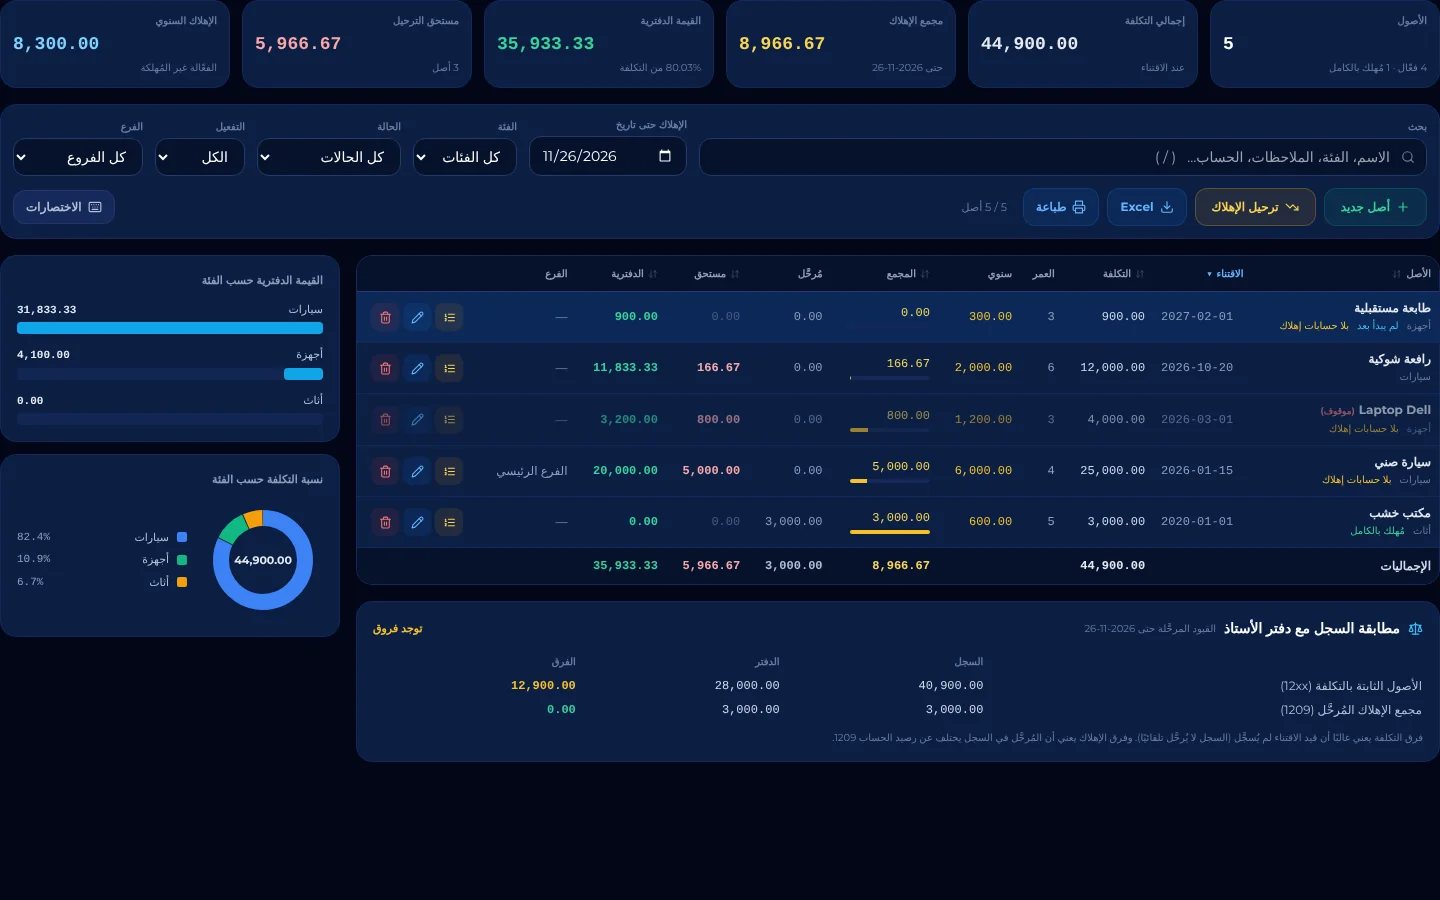
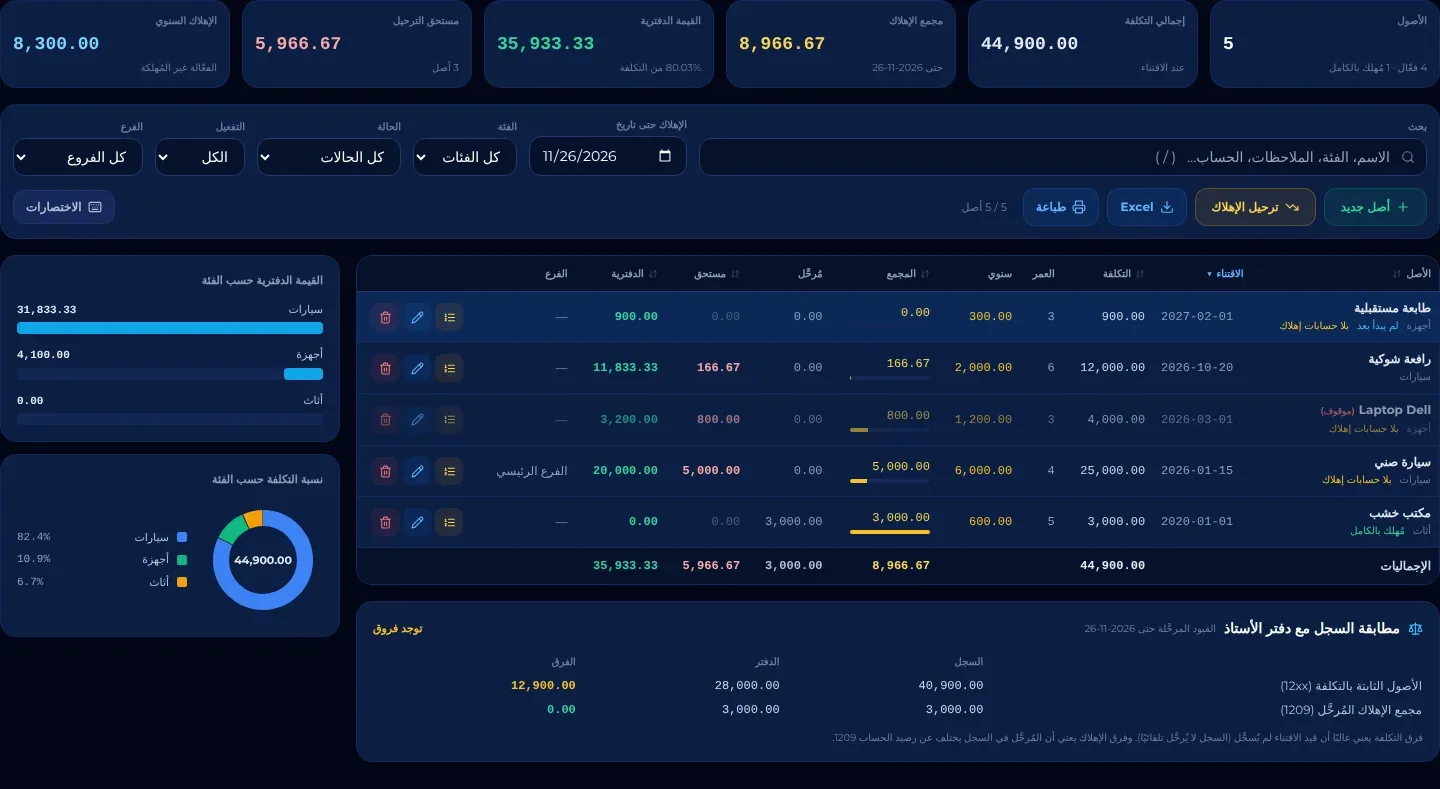
feat(landing): print templates showcase, zoomable screenshots, tighter layout

diff --git a/project/src/components/landing/LandingSections.tsx b/project/src/components/landing/LandingSections.tsx
@@ -3,8 +3,8 @@ import { useState } from "react";
 import { Menu, X, Languages, ArrowLeft, ArrowRight, Mail } from "lucide-react";
 import { useLang } from "../../context/LanguageContext";
 import { BrandLogo } from "../brand/BrandLogo";
-import { CAPABILITIES, MODULES, NEW_FEATURES, BRANCH_POINTS, REPORT_POINTS, DEMO_TABS, PLAN_CARDS, FAQS } from "./landingContent";
-import { Ico, IconTile, Section, Heading, CheckList, BrowserFrame, btnPrimary, btnGhostDark } from "./ui";
+import { CAPABILITIES, MODULES, NEW_FEATURES, BRANCH_POINTS, REPORT_POINTS, DEMO_TABS, PLAN_CARDS, FAQS, PRINT_DOCS, PRINT_STAGES, PRINT_POINTS } from "./landingContent";
+import { Ico, IconTile, Section, Heading, CheckList, BrowserFrame, ZoomImg, btnPrimary, btnGhostDark } from "./ui";
 import type { PlanId } from "./subscriptionLogic";
 import { ErpDashboardMock, ErpBranchesMock, ErpReportsMock } from "./ErpMock";
 
@@ -16,7 +16,7 @@ export function LandingTopNav({ onLogin, onJoin }: { onLogin: () => void; onJoin
   const [open, setOpen] = useState(false);
   const links = [
     { h: "#modules", l: t("Modules", "الوحدات") }, { h: "#new", l: t("What's new", "الجديد") }, { h: "#branches", l: t("Branches", "الفروع") },
-    { h: "#reports", l: t("Reports", "التقارير") }, { h: "#demo", l: t("Demo", "تجربة النظام") }, { h: "#pricing", l: t("Plans", "الاشتراكات") }, { h: "#faq", l: t("FAQ", "الأسئلة") },
+    { h: "#reports", l: t("Reports", "التقارير") }, { h: "#demo", l: t("Demo", "تجربة النظام") }, { h: "#print", l: t("Printing", "الطباعة") }, { h: "#pricing", l: t("Plans", "الاشتراكات") }, { h: "#faq", l: t("FAQ", "الأسئلة") },
   ];
   return (
     <header className="fixed inset-x-0 top-0 z-50 border-b border-[#ffffff1a] bg-[#0B1F44]/90 backdrop-blur-md">
@@ -171,10 +171,46 @@ export function DemoSection({ onJoin }: { onJoin: OnPlan }) {
           <button key={x.id} role="tab" aria-selected={x.id === id} onClick={() => setId(x.id)} data-testid={`demo-tab-${x.id}`} className={`rounded-full px-4 py-2 text-sm font-bold transition ${x.id === id ? "bg-[#0B1F44] text-[#ffffff]" : "bg-[#ffffff] text-[#0B1F44] ring-1 ring-[#d5dae5] hover:ring-[#007BFF]"}`}>{t(x.label.en, x.label.ar)}</button>
         ))}
       </div>
-      <div className="mx-auto max-w-5xl">
-        <BrowserFrame src={img(cur.img)} alt={t(cur.caption.en, cur.caption.ar)} />
+      <div className="mx-auto max-w-6xl">
+        <BrowserFrame src={img(cur.img)} alt={t(cur.caption.en, cur.caption.ar)} zoomLabel={t("Click to enlarge", "اضغط للتكبير")} />
         <p className="mt-4 text-center text-sm font-semibold text-[#4b5b78]" data-testid="demo-caption">{t(cur.caption.en, cur.caption.ar)}</p>
         <div className="mt-6 text-center"><button type="button" onClick={() => onJoin("trial")} className={btnPrimary}>{t("Start your free trial", "ابدأ تجربتك المجانية")}</button></div>
+      </div>
+    </Section>
+  );
+}
+
+export function PrintSection({ onJoin }: { onJoin: OnPlan }) {
+  const { t } = useLang();
+  const [kind, setKind] = useState(PRINT_DOCS[1].kind);
+  const cur = PRINT_DOCS.find((d) => d.kind === kind) ?? PRINT_DOCS[0];
+  return (
+    <Section id="print">
+      <Heading eyebrow={t("Document-cycle printing", "نماذج الطباعة للدورة المستندية")} title={t("Professional documents, ready to print", "مستندات احترافية جاهزة للطباعة")} sub={t("Nine templates covering the sales and purchases cycles — quotation to journal voucher.", "تسعة نماذج تغطي دورتي المبيعات والمشتريات — من عرض السعر إلى قيد اليومية.")} />
+      <div className="grid items-start gap-8 lg:grid-cols-[320px_1fr]">
+        <div className="space-y-5">
+          {PRINT_STAGES.map((st) => (
+            <div key={st.id}>
+              <div className="mb-2 text-xs font-extrabold uppercase tracking-wide text-[#007BFF]">{t(st.t.en, st.t.ar)}</div>
+              <div className="space-y-1.5">
+                {PRINT_DOCS.filter((d) => d.stage === st.id).map((d, i) => (
+                  <button key={d.kind} type="button" onClick={() => setKind(d.kind)} data-testid={`print-${d.kind}`} aria-pressed={d.kind === kind}
+                    className={`flex w-full items-center gap-3 rounded-xl border px-3.5 py-2.5 text-start text-sm font-bold transition ${d.kind === kind ? "border-[#0B1F44] bg-[#0B1F44] text-[#ffffff]" : "border-[#E6E8ED] bg-[#ffffff] text-[#0B1F44] hover:border-[#007BFF]"}`}>
+                    <span className={`inline-flex h-6 w-6 shrink-0 items-center justify-center rounded-full text-xs ${d.kind === kind ? "bg-[#00C2FF] text-[#0B1F44]" : "bg-[#007BFF14] text-[#007BFF]"}`}>{i + 1}</span>{t(d.t.en, d.t.ar)}
+                  </button>
+                ))}
+              </div>
+            </div>
+          ))}
+          <div className="rounded-xl bg-[#F4F6FA] p-4"><CheckList items={PRINT_POINTS.map((p) => t(p.en, p.ar))} /></div>
+        </div>
+        <div>
+          <div className="overflow-hidden rounded-2xl border border-[#E6E8ED] bg-[#ffffff] shadow-[0_30px_80px_-20px_rgba(11,31,68,0.35)]">
+            <ZoomImg key={cur.kind} src={`/landing/print/${cur.kind}.webp`} alt={t(cur.t.en, cur.t.ar)} label={t("Click to enlarge", "اضغط للتكبير")} />
+          </div>
+          <p className="mt-3 text-center text-sm font-semibold text-[#4b5b78]" data-testid="print-caption">{t(cur.t.en, cur.t.ar)} — {t("sample data, bilingual layout", "بيانات توضيحية، تخطيط ثنائي اللغة")}</p>
+          <div className="mt-5 text-center"><button type="button" onClick={() => onJoin("trial")} className={btnPrimary}>{t("Start your free trial", "ابدأ تجربتك المجانية")}</button></div>
+        </div>
       </div>
     </Section>
   );

diff --git a/project/src/components/landing/ui.tsx b/project/src/components/landing/ui.tsx
@@ -1,6 +1,6 @@
 // مكوّنات واجهة مشتركة لصفحة الهبوط (ألوان الهوية بصيغة hex صريحة كي لا يغيّرها theme.css)
-import { ReactNode } from "react";
-import { Calculator, ShoppingCart, ShoppingBag, Boxes, Building2, ScanBarcode, BarChart3, Bell, Printer, Wallet, Tag, Settings, Users, Globe, Cloud, Layers, ShieldCheck, Check } from "lucide-react";
+import { ReactNode, useEffect, useState } from "react";
+import { Calculator, ShoppingCart, ShoppingBag, Boxes, Building2, ScanBarcode, BarChart3, Bell, Printer, Wallet, Tag, Settings, Users, Globe, Cloud, Layers, ShieldCheck, Check, X, ZoomIn } from "lucide-react";
 import type { IconName } from "./landingContent";
 
 const ICONS: Record<IconName, typeof Calculator> = { calc: Calculator, cart: ShoppingCart, bag: ShoppingBag, box: Boxes, branch: Building2, pos: ScanBarcode, chart: BarChart3, bell: Bell, print: Printer, wallet: Wallet, tag: Tag, settings: Settings, users: Users, globe: Globe, cloud: Cloud, layers: Layers, shield: ShieldCheck };
@@ -16,7 +16,7 @@ export function IconTile({ name, dark = false }: { name: IconName; dark?: boolea
 }
 export function Section({ id, children, tone = "white", className = "" }: { id?: string; children: ReactNode; tone?: "white" | "gray" | "navy"; className?: string }) {
   const bg = tone === "navy" ? "bg-[#0B1F44]" : tone === "gray" ? "bg-[#F4F6FA]" : "bg-[#ffffff]";
-  return <section id={id} className={`${bg} scroll-mt-16 py-16 sm:py-24 ${className}`}><div className="mx-auto max-w-7xl px-4 sm:px-6">{children}</div></section>;
+  return <section id={id} className={`${bg} scroll-mt-16 py-14 sm:py-20 ${className}`}><div className="mx-auto max-w-7xl px-4 sm:px-6">{children}</div></section>;
 }
 export function Heading({ eyebrow, title, sub, dark = false, center = true }: { eyebrow?: string; title: string; sub?: string; dark?: boolean; center?: boolean }) {
   return (
@@ -39,14 +39,37 @@ export function CheckList({ items, dark = false }: { items: string[]; dark?: boo
     </ul>
   );
 }
-export function BrowserFrame({ src, alt, className = "", eager = false }: { src: string; alt: string; className?: string; eager?: boolean }) {
+/** صورة قابلة للتكبير بالنقر (نافذة عرض كاملة، تُغلق بـ Esc أو بالنقر). */
+export function ZoomImg({ src, alt, className = "", eager = false, label }: { src: string; alt: string; className?: string; eager?: boolean; label: string }) {
+  const [open, setOpen] = useState(false);
+  useEffect(() => {
+    if (!open) return;
+    const h = (e: KeyboardEvent) => { if (e.key === "Escape") setOpen(false); };
+    window.addEventListener("keydown", h); return () => window.removeEventListener("keydown", h);
+  }, [open]);
+  return (
+    <>
+      <button type="button" onClick={() => setOpen(true)} aria-label={label} data-testid="zoom-open" className="group relative block w-full cursor-zoom-in">
+        <img src={src} alt={alt} loading={eager ? "eager" : "lazy"} decoding="async" className={`block h-auto w-full ${className}`} />
+        <span className="pointer-events-none absolute bottom-3 end-3 inline-flex items-center gap-1 rounded-full bg-[#0B1F44]/85 px-3 py-1.5 text-xs font-bold text-[#ffffff] opacity-90 transition group-hover:bg-[#007BFF]"><ZoomIn size={14} />{label}</span>
+      </button>
+      {open && (
+        <div className="fixed inset-0 z-[120] flex items-center justify-center bg-[#050d1f]/90 p-3 sm:p-6" role="dialog" aria-modal="true" aria-label={alt} data-testid="zoom-dialog" onClick={() => setOpen(false)}>
+          <button type="button" aria-label="Close" className="absolute end-4 top-4 rounded-full bg-[#ffffff22] p-2 text-[#ffffff] hover:bg-[#ffffff44]" onClick={() => setOpen(false)}><X size={22} /></button>
+          <img src={src} alt={alt} className="max-h-full max-w-full rounded-lg bg-[#ffffff] object-contain shadow-2xl" onClick={(e) => e.stopPropagation()} />
+        </div>
+      )}
+    </>
+  );
+}
+export function BrowserFrame({ src, alt, className = "", eager = false, zoomLabel }: { src: string; alt: string; className?: string; eager?: boolean; zoomLabel?: string }) {
   return (
     <div className={`overflow-hidden rounded-2xl border border-[#E6E8ED] bg-[#ffffff] shadow-[0_30px_80px_-20px_rgba(11,31,68,0.45)] ${className}`}>
       <div className="flex items-center gap-1.5 border-b border-[#E6E8ED] bg-[#F4F6FA] px-4 py-2.5" dir="ltr">
         <span className="h-2.5 w-2.5 rounded-full bg-[#ff6b6b]" /><span className="h-2.5 w-2.5 rounded-full bg-[#ffc947]" /><span className="h-2.5 w-2.5 rounded-full bg-[#3ddc97]" />
         <span className="ms-3 truncate rounded-md bg-[#ffffff] px-3 py-0.5 text-[11px] text-[#6b7a99]">app.mihwar.cloud</span>
       </div>
-      <img src={src} alt={alt} loading={eager ? "eager" : "lazy"} decoding="async" className="block h-auto w-full" />
+      {zoomLabel ? <ZoomImg src={src} alt={alt} eager={eager} label={zoomLabel} /> : <img src={src} alt={alt} loading={eager ? "eager" : "lazy"} decoding="async" className="block h-auto w-full" />}
     </div>
   );
 }

diff --git a/project/src/components/landing/landingContent.ts b/project/src/components/landing/landingContent.ts
@@ -75,3 +75,25 @@ export const FAQS: { q: Bi; a: Bi }[] = [
   { q: b("Can I export my reports?", "هل يمكنني تصدير التقارير؟"), a: b("Yes, reports can be printed or exported to Excel.", "نعم، يمكن طباعة التقارير أو تصديرها إلى Excel.") },
   { q: b("Who can see my data?", "من يستطيع رؤية بياناتي؟"), a: b("Access is controlled by user roles and page permissions; each company's data is separated from other companies.", "الوصول مضبوط بأدوار المستخدمين وصلاحيات الصفحات، وبيانات كل شركة منفصلة عن غيرها.") },
 ];
+
+export type PrintDoc = { kind: string; stage: "sales" | "purchases" | "accounting"; t: Bi };
+export const PRINT_STAGES: { id: PrintDoc["stage"]; t: Bi }[] = [
+  { id: "sales", t: b("Sales cycle", "دورة المبيعات") }, { id: "purchases", t: b("Purchases cycle", "دورة المشتريات") }, { id: "accounting", t: b("Accounting", "المحاسبة") },
+];
+export const PRINT_DOCS: PrintDoc[] = [
+  { kind: "quotation", stage: "sales", t: b("Quotation", "عرض سعر") },
+  { kind: "sales_invoice", stage: "sales", t: b("Sales tax invoice", "فاتورة ضريبية — مبيعات") },
+  { kind: "receipt_voucher", stage: "sales", t: b("Receipt voucher", "سند قبض") },
+  { kind: "sales_return", stage: "sales", t: b("Credit note (sales return)", "إشعار دائن — مرتجع مبيعات") },
+  { kind: "purchase_order", stage: "purchases", t: b("Purchase order", "أمر شراء") },
+  { kind: "purchase_invoice", stage: "purchases", t: b("Purchase tax invoice", "فاتورة ضريبية — مشتريات") },
+  { kind: "payment_voucher", stage: "purchases", t: b("Payment voucher", "سند صرف") },
+  { kind: "purchase_return", stage: "purchases", t: b("Debit note (purchase return)", "إشعار مدين — مرتجع مشتريات") },
+  { kind: "journal_voucher", stage: "accounting", t: b("Journal voucher", "قيد يومية") },
+];
+export const PRINT_POINTS: Bi[] = [
+  b("Arabic, English or bilingual documents", "مستندات بالعربية أو الإنجليزية أو ثنائية اللغة"),
+  b("Your logo beside MIHWAR CLOUD ERP (each can be switched off)", "شعار منشأتك بجانب شعار MIHWAR CLOUD ERP (ويمكن إيقاف أيٍّ منهما)"),
+  b("A4, A5 or 80mm receipt paper, set per branch", "ورق A4 أو A5 أو إيصال 80مم، يُضبط لكل فرع"),
+  b("Company data and VAT number printed automatically", "بيانات الشركة والرقم الضريبي تُطبع تلقائيًا"),
+];

diff --git a/project/src/pages/LandingPage.tsx b/project/src/pages/LandingPage.tsx
@@ -4,7 +4,7 @@
  */
 import { useCallback, useState } from "react";
 import { useLang } from "../context/LanguageContext";
-import { LandingTopNav, Hero, CapabilityStrip, ModulesSection, NewFeaturesSection, BranchSection, ReportsSection, DemoSection, PricingSection2, FaqSection2, FinalCta, LandingFooter2 } from "../components/landing/LandingSections";
+import { LandingTopNav, Hero, CapabilityStrip, ModulesSection, NewFeaturesSection, BranchSection, ReportsSection, DemoSection, PrintSection, PricingSection2, FaqSection2, FinalCta, LandingFooter2 } from "../components/landing/LandingSections";
 import SubscriptionModal from "../components/landing/SubscriptionModal";
 import type { PlanId } from "../components/landing/subscriptionLogic";
 
@@ -27,6 +27,7 @@ export default function LandingPage({ onLogin }: LandingPageProps) {
         <BranchSection />
         <ReportsSection />
         <DemoSection onJoin={join} />
+        <PrintSection onJoin={join} />
         <PricingSection2 onJoin={join} />
         <FaqSection2 />
         <FinalCta onJoin={join} />
